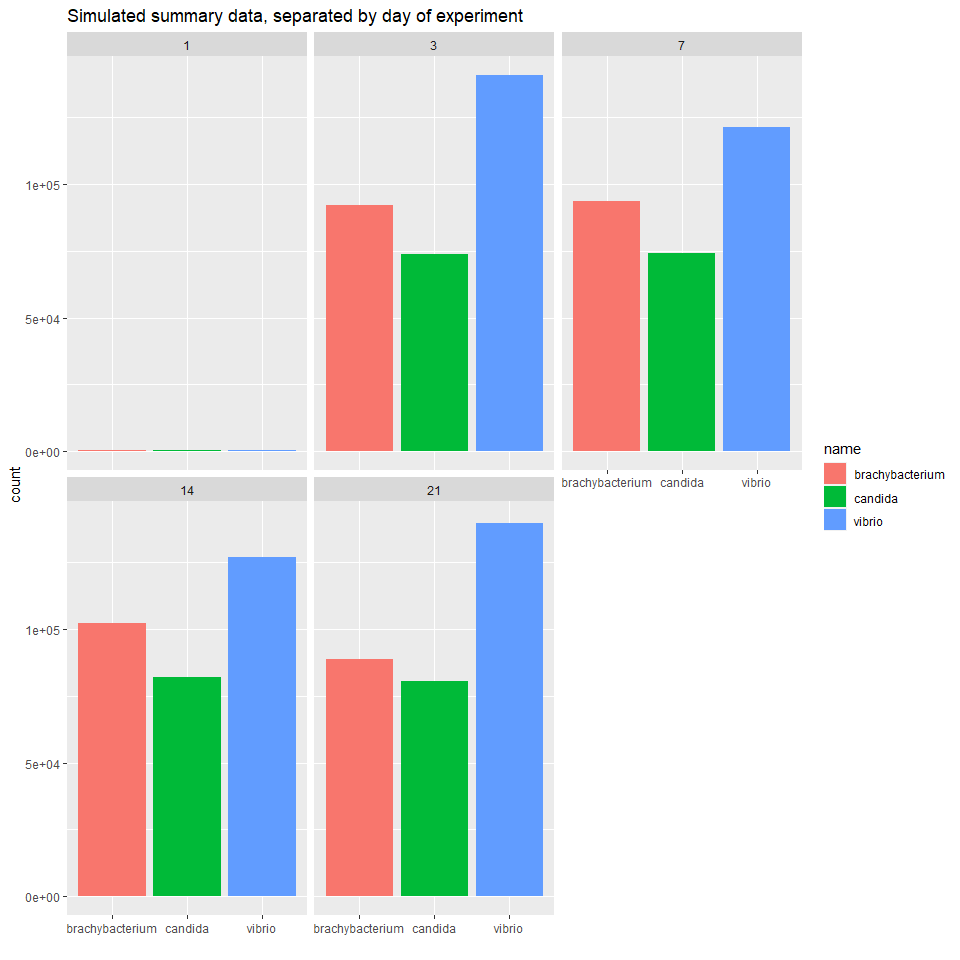
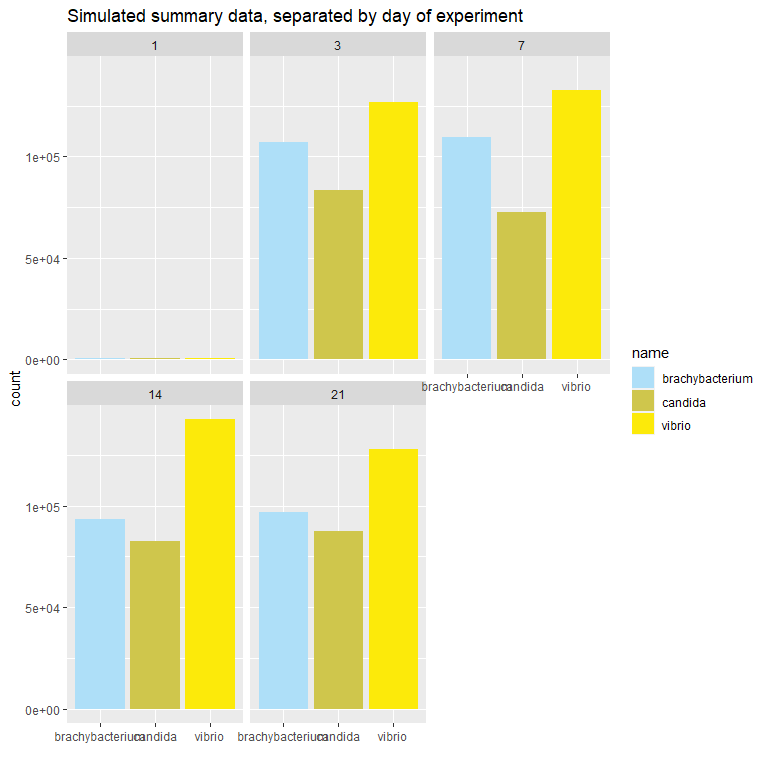
Fixing mistake in readme.

diff --git a/README.md b/README.md
@@ -217,7 +217,7 @@ ggplot(data = dat.summary,
   geom_col()+
   facet_wrap(~ day)+
   xlab("")+
-  scale_color_wolfe(dat.names = dat$name, palette.name = "wolfe2014")+
+  scale_fill_wolfe(dat.names = dat$name, palette.name = "wolfe2014")+
   ggtitle("Simulated summary data, separated by day of experiment")
 ```
 
